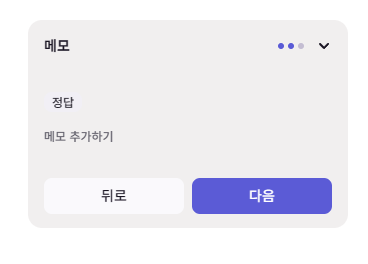
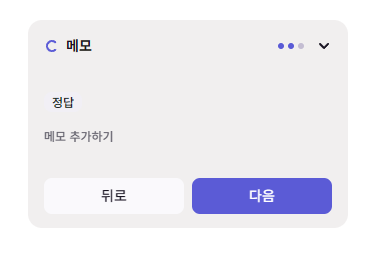
feat(ui-l2): R0 헤더에 CoditMark 추가 — 접힘/펼침 브랜드 일관성 (#52)
펼친 위젯 헤더 좌측에 단색 C 마크 (제목 앞). 접힌 pill 과 일관.
마크 SVG 자체 품질 개선은 #55 (머지 후 자동 반영).

panel-shell.test: 마크 렌더 + DOM 순서(마크 → 제목) 1건. 296 pass.
스크린샷 갱신 (timer + memo).

Claude-Session: https://claude.ai/code/session_01KKkjV5fWYCG6krsUgEnSHq

Changed region(s): [[0.1196, 0.1515, 0.269, 0.2121], [0.1495, 0.3636, 0.2092, 0.4242]]

diff --git a/apps/extension/components/codit/panel-shell.tsx b/apps/extension/components/codit/panel-shell.tsx
@@ -1,5 +1,6 @@
 import type { PointerEvent as ReactPointerEvent, ReactNode, Ref } from 'react';
 
+import { CoditMark } from '@/components/codit/codit-mark';
 import { Button } from '@/components/ui/button';
 import { Card } from '@/components/ui/card';
 import { cn } from '@/lib/utils';
@@ -104,7 +105,11 @@ export function PanelShell({
                 )}
                 onPointerDown={handleHeaderPointerDown}
             >
-                <h2 className="text-sm font-semibold">{title}</h2>
+                <span className="flex items-center gap-1.5">
+                    {/* 브랜드 마크 — 접힌 pill 과 일관 (단색 C). docs/ui/brand/README.md */}
+                    <CoditMark className="text-primary size-4 shrink-0" />
+                    <h2 className="text-sm font-semibold">{title}</h2>
+                </span>
                 <span className="flex items-center gap-2">
                     {step ? <StepDots step={step} /> : null}
                     {onCollapse ? (

diff --git a/apps/extension/components/codit/panel-shell.test.tsx b/apps/extension/components/codit/panel-shell.test.tsx
@@ -100,6 +100,22 @@ describe('PanelShell — 제목 시맨틱 (신규)', () => {
             screen.queryByRole('heading', { level: 2, name: '풀이 타이머' }),
         ).toBeInTheDocument();
     });
+
+    it('헤더 좌측에 브랜드 마크(aria-hidden svg)를 제목 앞에 렌더한다', () => {
+        render(
+            <PanelShell title="풀이 타이머">
+                <div>body</div>
+            </PanelShell>,
+        );
+
+        const header = headerOf('풀이 타이머');
+        const markSvg = header.querySelector('svg[aria-hidden="true"]');
+        expect(markSvg).not.toBeNull();
+
+        // 마크가 제목보다 DOM 순서상 앞
+        const heading = screen.getByRole('heading', { name: '풀이 타이머' });
+        expect(markSvg!.compareDocumentPosition(heading) & Node.DOCUMENT_POSITION_FOLLOWING).toBeTruthy();
+    });
 });
 
 describe('PanelShell — step 도트 (신규)', () => {

diff --git a/docs/features/widget-shell/ui-design.md b/docs/features/widget-shell/ui-design.md
@@ -14,7 +14,8 @@
 | 4 | 제목 시맨틱 | `<h2>` heading (기존 `<span>`) — a11y. 시각 스타일(`text-sm font-semibold`)은 유지 |
 | 5 | 아이콘 | 전부 인라인 `<svg>` (`panel-shell.tsx` 내부). 라이브러리 미도입 원칙 |
 
-> **현재 대비 실제 변경**: ① step 텍스트 → 도트  ② 밀도 roomy  ③ 제목 h2.
+> **현재 대비 실제 변경**: ① step 텍스트 → 도트  ② 밀도 roomy  ③ 제목 h2
+> ④ 헤더 좌측에 `CoditMark`(단색 C) — 접힌 pill 과 브랜드 일관성 (#55 로 마크 자체는 별도 개선).
 > divider·footer 버튼 배치·shadow·drag·collapse 동작은 **전부 유지**.
 
 ---
